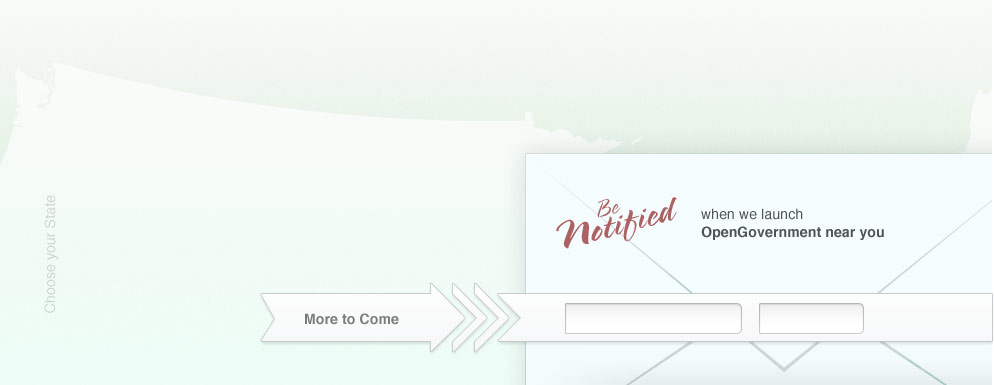
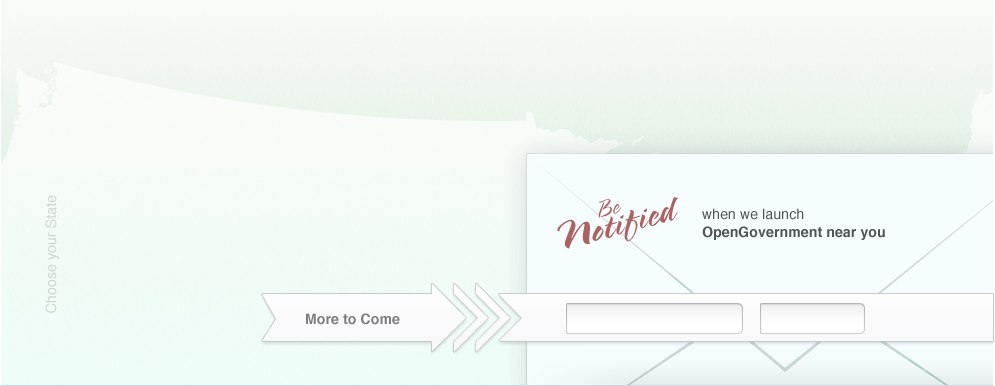
stuff from last week

diff --git a/public/stylesheets/layout.css b/public/stylesheets/layout.css
@@ -1,3 +1,110 @@
+.venn{
+  width: 714px; 
+  background: transparent url(/images/about.png) 0 0 no-repeat !important;
+  margin: 40px 0 40px -13px;
+  height: 590px;
+  }
+
+
+
+.supported_states_list{
+height: 244px;
+}
+
+
+.supported_states_list li a{
+display: block;
+font-size: 20px;
+padding-left: 32px;
+line-height: 3.5em;
+background: transparent url(/images/states.png) 0 24px no-repeat !important;
+}
+
+
+
+
+.supported_states_list li a.state-LA{
+background: transparent url(/images/states.png) 0 -34px no-repeat !important;
+}
+
+
+.supported_states_list li a.state-MD{
+background: transparent url(/images/states.png) 0 -88px no-repeat !important;
+}
+
+.supported_states_list li a.state-TX{
+background: transparent url(/images/states.png) 0 -200px no-repeat !important;
+}
+
+
+.supported_states_list li a.state-WI{
+background: transparent url(/images/states.png) 0 -142px no-repeat !important;
+}
+
+
+
+.signup_form{
+margin: 162px 0 0 50px;
+width: 400px !important;
+}
+
+input#email{
+font-size: 12px;
+padding: 9px;
+margin: 0;
+width: 155px;
+border: 0;
+margin-left: 10px;
+background: none;
+
+float: left;
+  font-family: "Helvetica Neue", Helvetica, Arial, sans-serif;
+}
+
+
+input#postal_code{
+font-size: 12px;
+border: 0;
+padding: 9px;
+float: left;
+margin: 0 0 0 20px !important;
+width: 80px;
+background: none;
+float: left;
+  font-family: "Helvetica Neue", Helvetica, Arial, sans-serif;
+}
+
+
+
+input#_qf_Edit_next{
+
+  font-family: Arial, Helvetica, sans-serif;
+  font-weight: bold !important;
+  
+  text-shadow: 0 1px 0px #fff;
+ padding: 7px; 20px;
+
+margin: 3px 0 0 25px;
+  -moz-border-radius: 3px;
+  -webkit-border-radius: 3px;
+  border-radius:3px;
+  
+font-size: 12px;  
+
+  border: 1px solid #a7c3c9;
+  border-top: 1px solid #c6d9de;
+  border-bottom: 1px solid #4e7179;
+  
+  
+  -moz-box-shadow: 0 1px 0px #ddd, inset 0 1px 0px #fff;
+  -webkit-box-shadow: 0 1px 0px #dbdbdb, inset 0 1px 0px #fff;
+  box-shadow: 0 1px 0px #dbdbdb, inset 0 1px 0px #fff;
+  
+  filter: progid:DXImageTransform.Microsoft.gradient(startColorstr='#fffff', endColorstr='#ddddd'); /* for IE */
+  background: -webkit-gradient(linear, left top, left bottom, from(#fff), to(#ddd)); /* for webkit browsers */
+  background: -moz-linear-gradient(top,  #ecf9fc,  #d6e8eb); /* for firefox 3.6+ */
+  
+}
 
 
 .smaller *{
@@ -44,7 +151,7 @@
 .illo h2{
   width: 503px;
   margin: 0px auto 0 !important; 
-  background: url(/images/do_more.gif) left 0 no-repeat;
+  background: url(/images/do_more.gif) center no-repeat;
   height: 0 !important;
   overflow: hidden;
   line-height: 3em;

diff --git a/public/stylesheets/classes.css b/public/stylesheets/classes.css
@@ -1,110 +1,3 @@
-.venn{
-  width: 714px; 
-  background: transparent url(/images/about.png) 0 0 no-repeat !important;
-  margin: 40px 0 40px -13px;
-  height: 590px;
-  }
-
-
-
-.supported_states_list{
-height: 244px;
-}
-
-
-.supported_states_list li a{
-display: block;
-font-size: 20px;
-padding-left: 32px;
-line-height: 3.5em;
-background: transparent url(/images/states.png) 0 24px no-repeat !important;
-}
-
-
-
-
-.supported_states_list li a.state-LA{
-background: transparent url(/images/states.png) 0 -34px no-repeat !important;
-}
-
-
-.supported_states_list li a.state-MD{
-background: transparent url(/images/states.png) 0 -88px no-repeat !important;
-}
-
-.supported_states_list li a.state-TX{
-background: transparent url(/images/states.png) 0 -200px no-repeat !important;
-}
-
-
-.supported_states_list li a.state-WI{
-background: transparent url(/images/states.png) 0 -142px no-repeat !important;
-}
-
-
-
-.signup_form{
-margin: 160px 0 0 50px;
-width: 400px !important;
-}
-
-input#email{
-font-size: 12px;
-padding: 9px;
-margin: 0;
-width: 155px;
-border: 0;
-margin-left: 10px;
-background: none;
-
-float: left;
-  font-family: "Helvetica Neue", Helvetica, Arial, sans-serif;
-}
-
-
-input#postal_code{
-font-size: 12px;
-border: 0;
-padding: 9px;
-float: left;
-margin: 0 0 0 20px !important;
-width: 80px;
-background: none;
-float: left;
-  font-family: "Helvetica Neue", Helvetica, Arial, sans-serif;
-}
-
-
-
-input#_qf_Edit_next{
-
-  font-family: Arial, Helvetica, sans-serif;
-  font-weight: bold !important;
-  
-  text-shadow: 0 1px 0px #fff;
- padding: 7px; 20px;
-
-margin: 3px 0 0 25px;
-  -moz-border-radius: 3px;
-  -webkit-border-radius: 3px;
-  border-radius:3px;
-  
-font-size: 12px;  
-
-  border: 1px solid #a7c3c9;
-  border-top: 1px solid #c6d9de;
-  border-bottom: 1px solid #4e7179;
-  
-  
-  -moz-box-shadow: 0 1px 0px #ddd, inset 0 1px 0px #fff;
-  -webkit-box-shadow: 0 1px 0px #dbdbdb, inset 0 1px 0px #fff;
-  box-shadow: 0 1px 0px #dbdbdb, inset 0 1px 0px #fff;
-  
-  filter: progid:DXImageTransform.Microsoft.gradient(startColorstr='#fffff', endColorstr='#ddddd'); /* for IE */
-  background: -webkit-gradient(linear, left top, left bottom, from(#fff), to(#ddd)); /* for webkit browsers */
-  background: -moz-linear-gradient(top,  #ecf9fc,  #d6e8eb); /* for firefox 3.6+ */
-  
-}
 
 
 /*///////////////////////////////////////////////////
